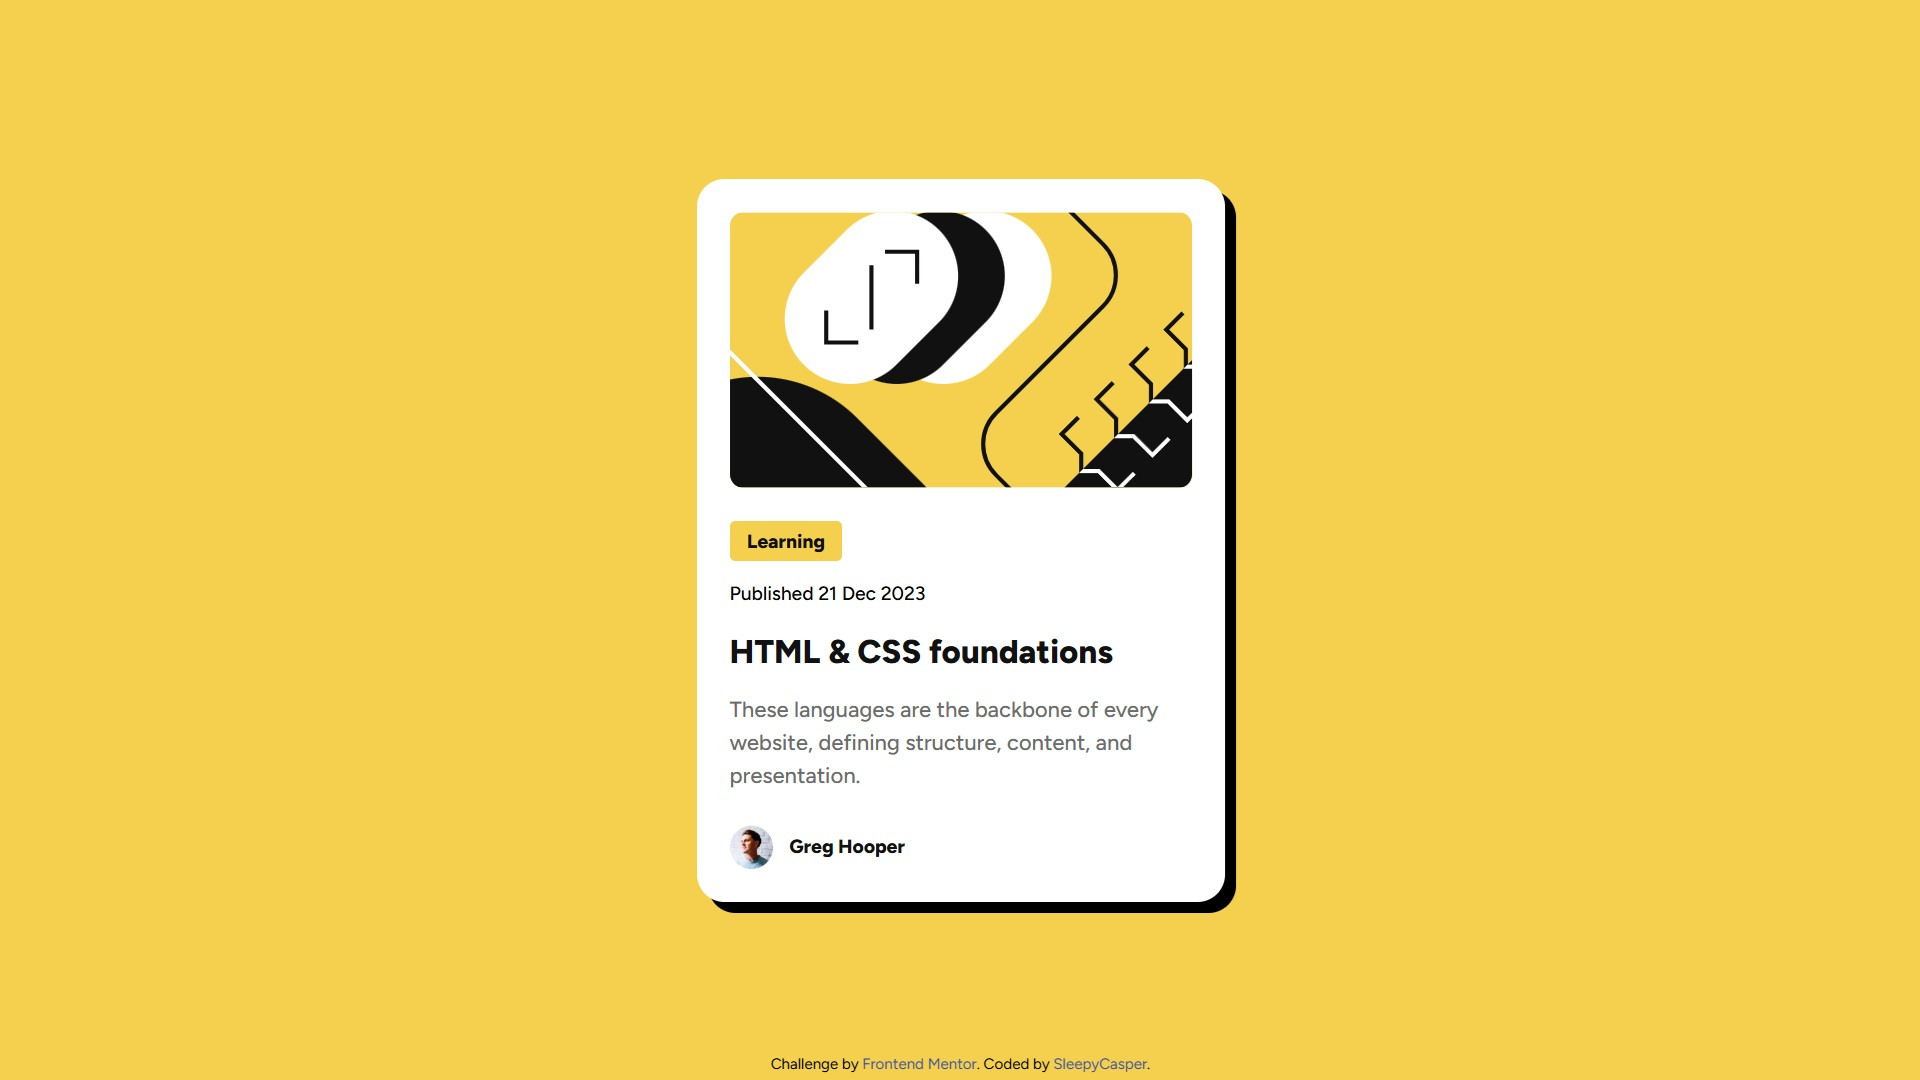
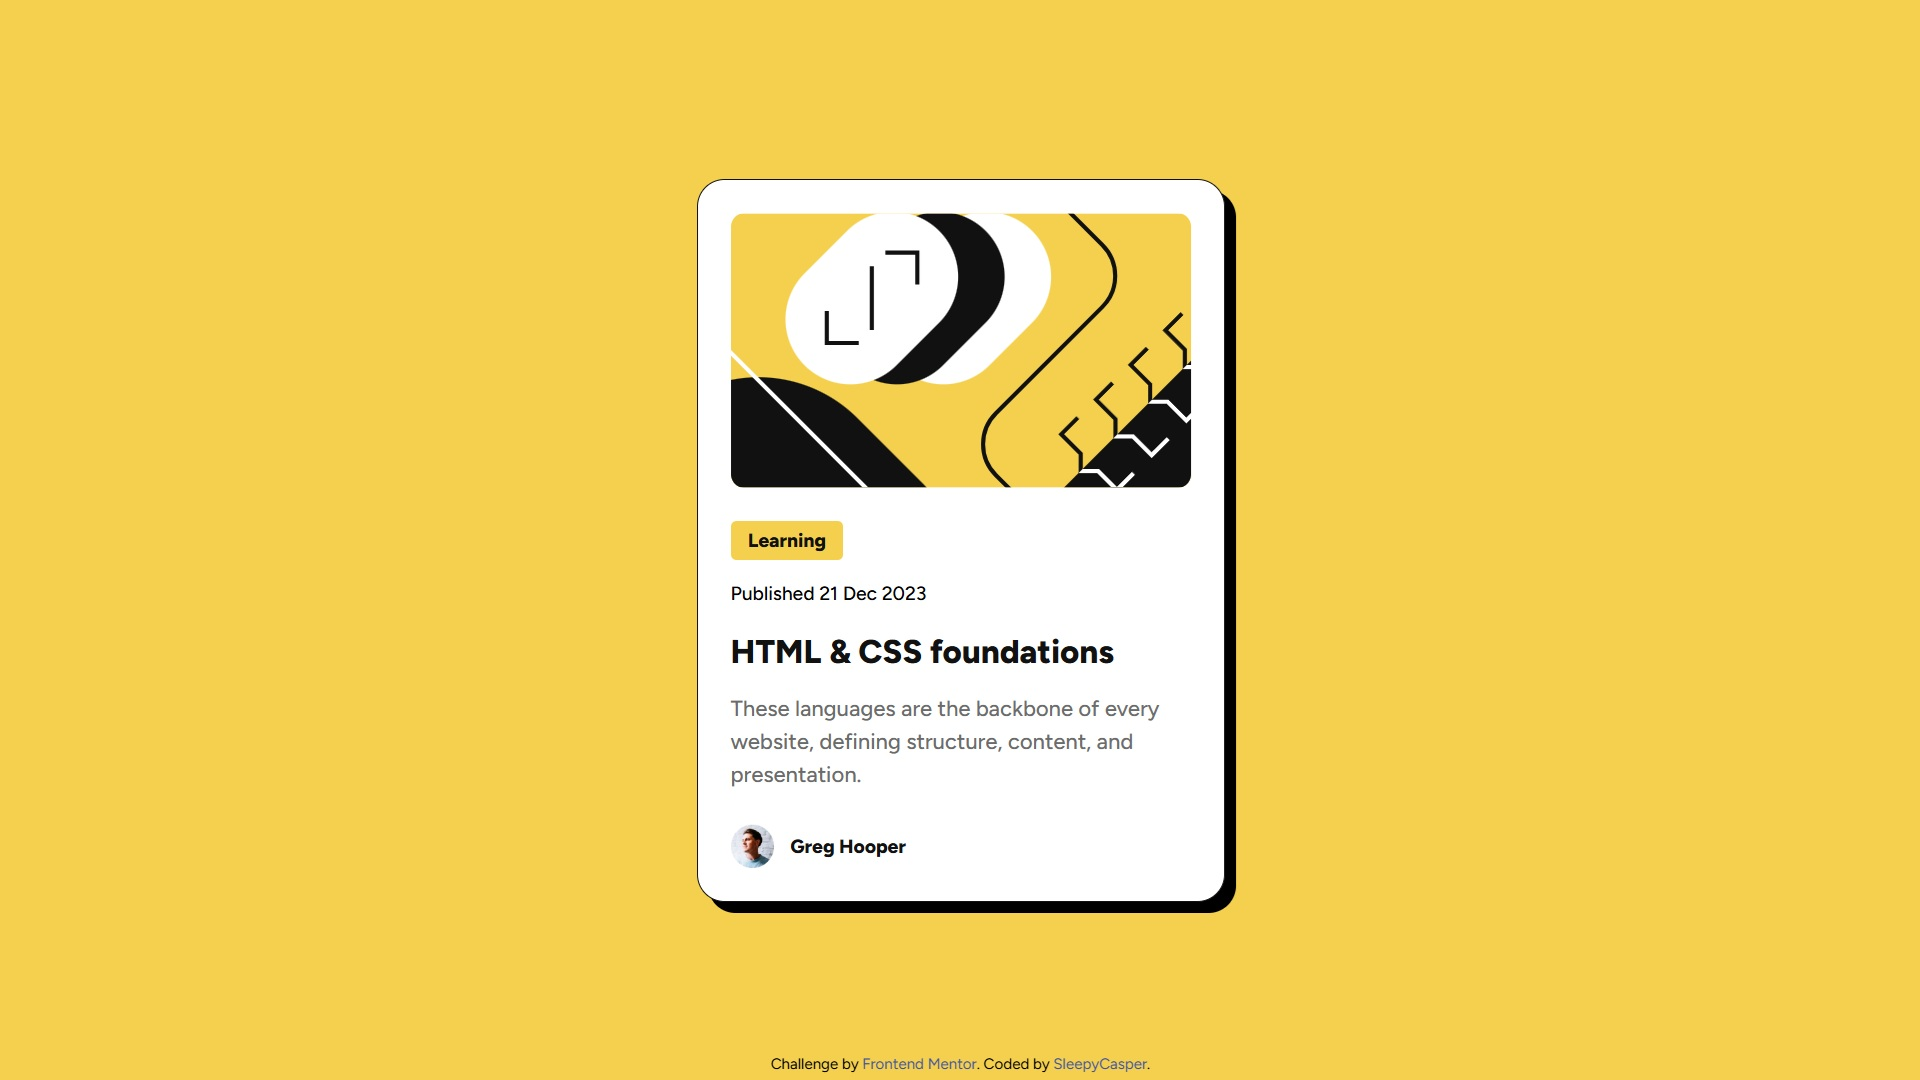
Add button type to the button and border to the card in CSS

diff --git a/index.html b/index.html
@@ -21,7 +21,7 @@
       <img class="illust" src="assets/images/illustration-article.svg" alt="illustration">
 
       <div class="container-text">
-        <button>Learning</button>
+        <button type="button">Learning</button>
         <div class="date">Published 21 Dec 2023</div>
         <h1 class="title"><a href="#">HTML & CSS foundations</a></h1>
         <p class="text">

diff --git a/style.css b/style.css
@@ -46,9 +46,9 @@ a {
     min-height: 32.625rem;
     padding: 1.5rem;
     gap: 1.5rem;
+    border: solid var(--gray950) 1px;
     border-radius: 20px;
-    box-shadow: 8px 8px 0;
-    
+    box-shadow: 8px 8px 0
 }
 
 
